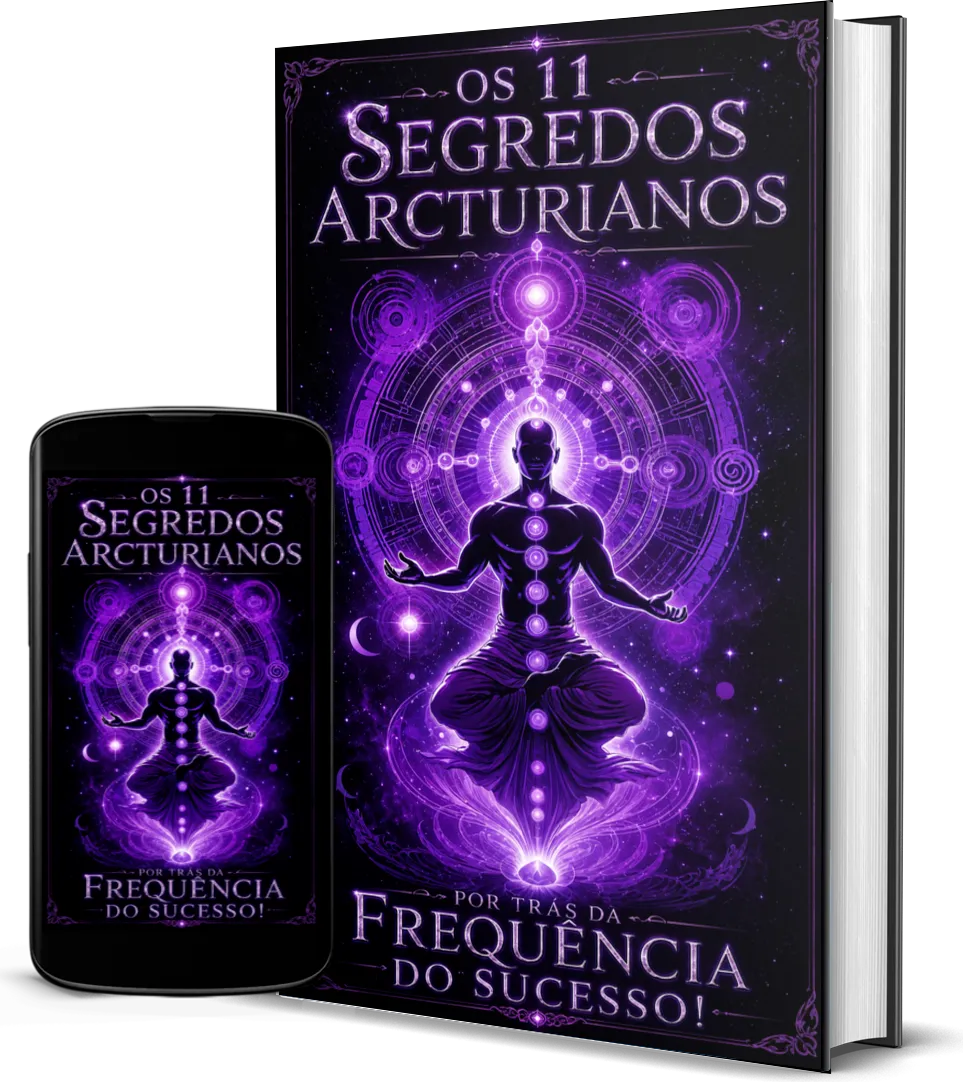
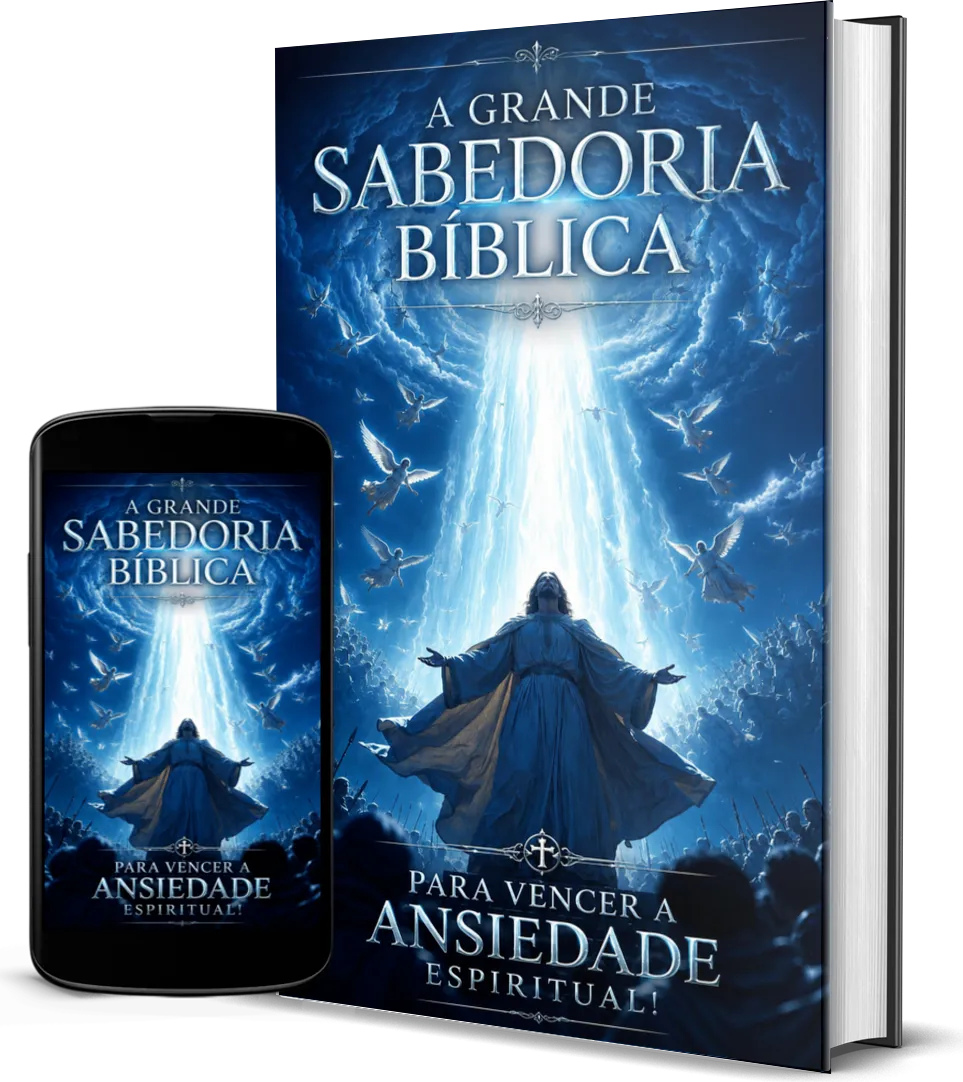
atualizacao do sistema

diff --git a/builder.html b/builder.html
@@ -1119,6 +1119,11 @@ function wireInlineEdit(){
         if(r.width<10||r.height<10)return;
         if(Math.abs(r.left-selfRect.left)<3&&Math.abs(r.top-selfRect.top)<3&&Math.abs(r.width-selfRect.width)<3)return;   /* é o próprio card sendo arrastado */
         xs[Math.round(r.left+r.width/2)]=1;ys[Math.round(r.top+r.height/2)]=1;});
+      /* ALINHAR TEXTO COM TEXTO: o centro X de cada texto vira âncora de linha VERTICAL (mesmo eixo) — ajuda a centralizar os textos entre si (ex.: seção "últimas cópias"). Só X, pra não travar o empilhamento na vertical. */
+      Array.prototype.forEach.call(doc.querySelectorAll('[data-edit]'),function(n){var r=n.getBoundingClientRect();
+        if(r.width<6||r.height<6)return;
+        if(Math.abs(r.left-selfRect.left)<3&&Math.abs(r.top-selfRect.top)<3&&Math.abs(r.width-selfRect.width)<3)return;   /* é o próprio texto sendo arrastado */
+        xs[Math.round(r.left+r.width/2)]=1;});
       return {xs:Object.keys(xs).map(Number),ys:Object.keys(ys).map(Number)};}
     /* recebe o rect (viewport) do elemento arrastado; mostra a(s) linha(s) e devolve {dx,dy} pra encaixar no centro mais próximo (tela ou card) */
     function cgSnap(rect){_cgEnsure();var ecx=rect.left+rect.width/2,ecy=rect.top+rect.height/2;var A=cgAnchors(rect),TH=8,dx=0,dy=0,gx=null,gy=null,bx=99,by=99;
@@ -2086,7 +2091,7 @@ $('btnImport').onclick=function(){$('impText').value='';$('modal').classList.add
       Object.keys(d.ebooks).forEach(function(k){model[k]=d.ebooks[k];});
       var first=Object.keys(d.ebooks)[0];if(first){curEbook=first;if(model[curEbook]&&model[curEbook].paises)curPais=Object.keys(model[curEbook].paises)[0];}
       save();render();renderEbooksHome();
-      toast('✓ Molde puxado: '+d.ebooksCount+' ebook(s) e '+d.imgs+' imagem(ns)'+(d.imgsFail?(' ('+d.imgsFail+' imagem não veio)'):'')+'. Revise e dê Deploy.');
+      toast('✓ Molde puxado: '+Object.keys(d.ebooks).join(', ')+' — '+d.imgs+' imagem(ns)'+(d.imgsFail?(' ('+d.imgsFail+' não veio)'):'')+'. Revise e dê Deploy.');
     }).catch(function(e){_bpm.disabled=false;_bpm.textContent=_ol;toast('⚠️ erro: '+(e&&e.message));});
 };})();
 $('impCancel').onclick=function(){$('modal').classList.remove('on');};
@@ -2255,7 +2260,8 @@ function showDeployResult(prodUrl,onlyEbook){
 (function(){var b=$('btnLinks');if(b)b.onclick=function(){fetch('/deploy-config.json',{cache:'no-store'}).then(function(r){return r.json();}).then(function(c){showDeployResult((c&&c.prodUrl)||'');}).catch(function(){showDeployResult('');});};})();
 function openMulti(){
   var ps=model[curEbook].paises;$('mList').innerHTML='';
-  PAISES.forEach(function(P){
+  var paisesOrd=PAISES.slice().sort(function(a,b){if(a.c==='br')return -1;if(b.c==='br')return 1;return (a.nome||'').localeCompare(b.nome||'','pt');});   /* Brasil (fonte) sempre no topo; o resto em ordem alfabética */
+  paisesOrd.forEach(function(P){
     var has=ps[P.c];
     var row=document.createElement('div');row.style.cssText='display:grid;grid-template-columns:24px 140px 1fr;gap:8px;align-items:center;margin-bottom:6px';
     var cb=document.createElement('input');cb.type='checkbox';cb.checked=!!has||P.c==='br';